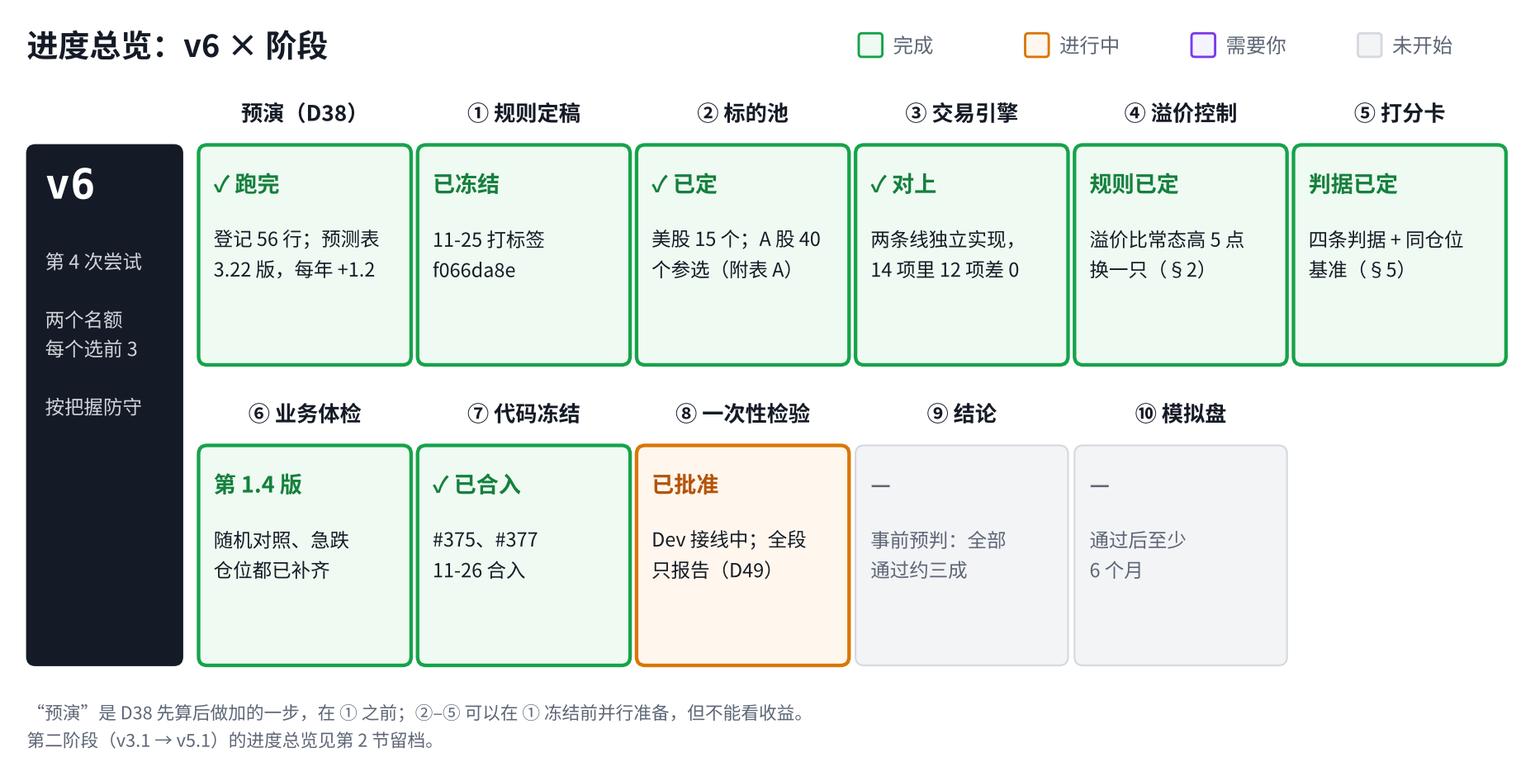
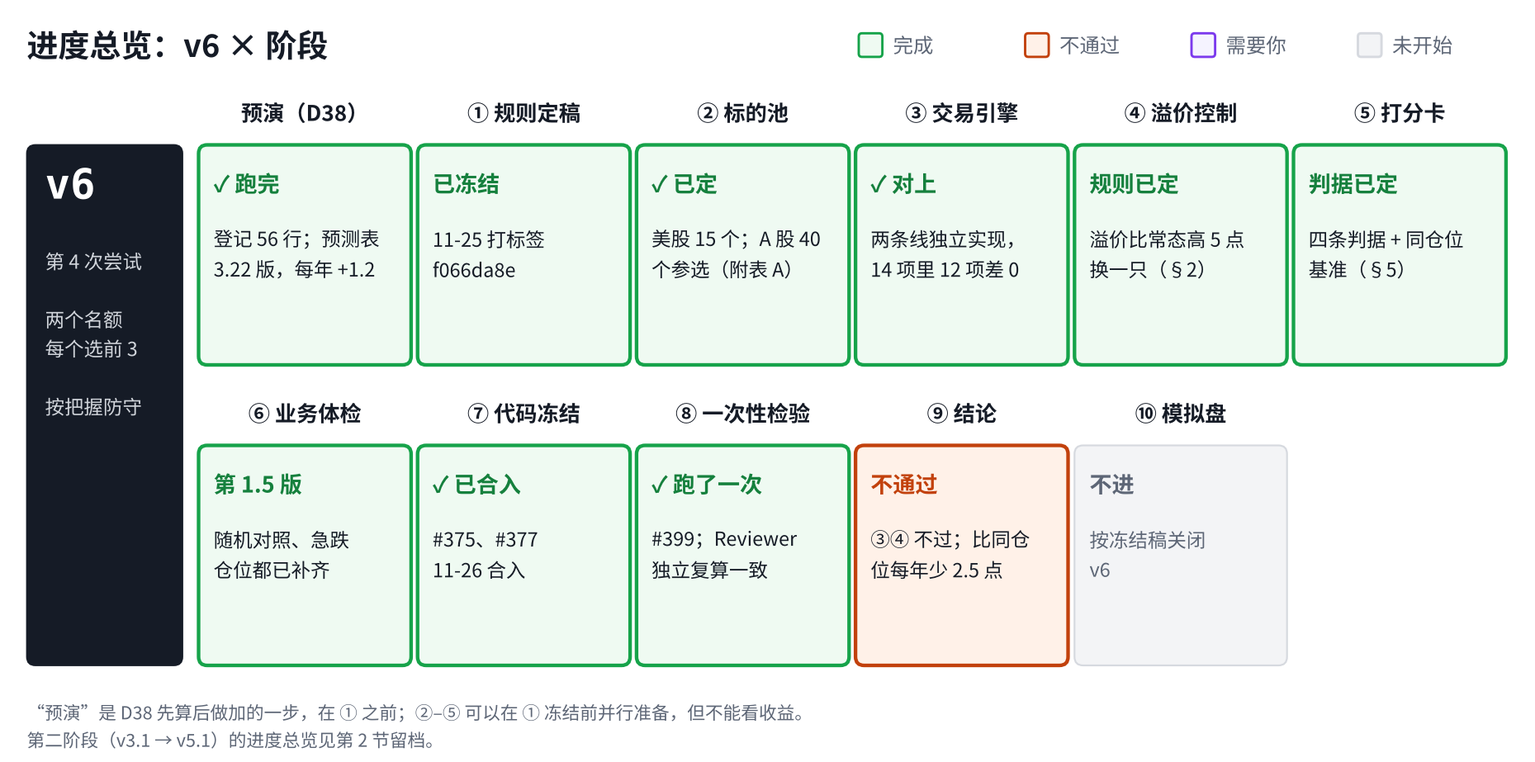
看板：v6 一次性检验不通过，按冻结稿关闭；进度总览重画
指标组件“本段”列缺省时回到“全段”（修 1.0.1 引入的体检页构建错误）。

Claude-Session: https://claude.ai/code/session_01D95uZGmhdA65bQR8bYU8L8

Changed region(s): [[0.4056, 0.5764, 0.78, 0.8797], [0.6552, 0.0303, 0.7176, 0.091]]

diff --git a/docs/artifact/board/index.html b/docs/artifact/board/index.html
@@ -975,6 +975,111 @@ a.sl-sp-i.t-todo .sl-sp-st { color: var(--muted); font-weight: 700; } a.sl-sp-i.
 @media (max-width: 760px) { .sl-dr { grid-template-columns: minmax(0, 1fr); gap: 3px; } .sl-ds { justify-content: flex-start; } .sl-look, a.sl-next { flex-direction: column; gap: 4px; align-items: flex-start; } }
 
 
+.gl-big { display: grid; gap: 2px; } .gl-big b { font-family: var(--font-mono); font-size: 24px; font-weight: 800; color: var(--ink); line-height: 1.15; } .gl-big span { font-size: 12px; color: var(--muted); font-weight: 600; }
+.gl-two { display: grid; gap: 6px; }
+.gl-two-r { display: grid; gap: 4px; }
+.gl-two-r em { font-style: normal; font-size: 11px; font-weight: 800; color: var(--muted); }
+.gl-two-r div { display: flex; flex-wrap: wrap; gap: 4px; } .gl-two-r span { font-size: 12px; padding: 3px 8px; border-radius: 6px; background: var(--bg); border: 1px solid var(--line); color: var(--ink); }
+.gl-two-r:first-child span { border-color: var(--accent); color: var(--accent); font-weight: 700; }
+.gl-th2 { display: grid; gap: 6px; }
+.gl-th-r { display: grid; grid-template-columns: 22px minmax(0, 1fr) auto; gap: 8px; align-items: center; padding: 5px 8px; border-radius: 8px; background: var(--bg); }
+.gl-th-k { font-size: 13px; font-weight: 600; color: var(--ink); } .gl-th-r b { font-size: 13px; font-weight: 800; color: var(--accent); white-space: nowrap; }
+.gl-st { position: relative; } .gl-st::before { content: ""; position: absolute; left: 10px; top: 10px; bottom: 10px; width: 2px; background: var(--line); }
+.gl-st li { position: relative; } .gl-st .gl-sn { position: relative; z-index: 1; }
+.gl-kw { color: var(--accent); font-weight: 800; }
+.gl-c.wide .gl-d { background: var(--bg); border-radius: 8px; padding: 8px 10px; }
+.gl-c .gl-s:only-of-type { }
+
+.gl-c.full { grid-column: 1 / -1; background: var(--bg); }
+.gl-chain { display: flex; flex-wrap: wrap; align-items: center; gap: 6px 4px; }
+.gl-node { font-size: 12.5px; font-weight: 800; padding: 6px 10px; border-radius: 8px; background: var(--surface); border: 1.5px solid var(--ink); color: var(--ink); }
+.gl-edge { display: inline-grid; grid-template-areas: 'l l' 'v a'; align-items: center; justify-items: center; padding: 0 4px; }
+.gl-edge em { grid-area: l; font-style: normal; font-size: 11px; font-weight: 700; color: var(--muted); }
+.gl-edge b { grid-area: v; font-family: var(--font-mono); font-size: 14px; font-weight: 800; }
+.gl-edge i { grid-area: a; font-style: normal; color: var(--muted); margin-left: 2px; }
+.gl-edge.pos b, .gl-edge.pos b * { color: var(--good) !important; } .gl-edge.neg b, .gl-edge.neg b * { color: var(--bad) !important; }
+.gl-val { display: flex; align-items: baseline; gap: 8px; } .gl-val b { font-family: var(--font-mono); font-size: 24px; font-weight: 800; } .gl-val span { font-size: 11.5px; color: var(--muted); }
+.gl-val.pos b, .gl-val.pos b * { color: var(--good) !important; } .gl-val.neg b, .gl-val.neg b * { color: var(--bad) !important; }
+
+.gl-c.wide { grid-column: span 2; }
+.gl-st { list-style: none !important; margin: 0 !important; padding: 0 !important; display: grid; gap: 5px; counter-reset: none; }
+.gl-st li::before, .gl-st li::marker { content: none !important; display: none !important; }
+.gl-st li { padding-left: 0 !important; margin: 0 !important; }
+.gl-st li { display: grid; grid-template-columns: 22px minmax(0, 1fr); gap: 8px; align-items: start; font-size: 13px; line-height: 1.5; color: var(--ink); }
+.gl-sn { width: 20px; height: 20px; border-radius: 50%; background: var(--accent); color: #fff; font-size: 11px; font-weight: 800; display: grid; place-items: center; margin-top: 1px; }
+.gl-sc { margin-top: 4px; }
+.gl-sc-ax { display: flex; justify-content: space-between; font-size: 11px; color: var(--muted); margin-bottom: 4px; }
+.gl-sc-bar { position: relative; height: 10px; border-radius: 5px; background: linear-gradient(90deg, #fde68a, #e5e7eb 50%, #bfdbfe); margin: 4px 0 64px; }
+.gl-mk { position: absolute; top: -3px; transform: translateX(-50%); }
+.gl-mk i { display: block; width: 4px; height: 16px; border-radius: 2px; background: var(--ink); margin: 0 auto; }
+.gl-mk em { position: absolute; top: 20px; left: 50%; transform: translateX(-50%); font-style: normal; font-size: 11px; line-height: 1.35; color: var(--ink); white-space: nowrap; text-align: center; }
+.gl-mk.up em { top: 38px; }
+.gl-mk.r em { left: auto; right: -2px; transform: none; text-align: right; } .gl-mk.l em { left: -2px; transform: none; text-align: left; }
+.gl-mk em b { display: block; font-family: var(--font-mono); color: var(--accent); }
+@media (max-width: 760px) { .gl-c.wide { grid-column: auto; } }
+
+.gl { display: grid; gap: 16px; }
+.gl-gh { display: flex; align-items: center; gap: 8px; font-size: 13px; font-weight: 800; color: var(--ink); margin-bottom: 8px; padding-left: 10px; border-left: 3px solid var(--accent); }
+.gl-gh span { font-size: 11px; font-weight: 700; color: var(--muted); background: var(--bg); border-radius: 999px; padding: 1px 8px; }
+.gl-grid { display: grid; grid-template-columns: repeat(var(--gl-c, 3), minmax(0, 1fr)); gap: 10px; }
+@media (max-width: 760px) { .gl-grid { grid-template-columns: 1fr; } }
+.gl-c { border: 1px solid var(--line); border-radius: 10px; padding: 11px 13px; background: var(--surface); display: grid; gap: 7px; align-content: start; }
+.gl-n { font-size: 15px; font-weight: 800; color: var(--accent); }
+.gl-s { font-size: 13.5px; line-height: 1.5; color: var(--ink); font-weight: 500; }
+.gl-d { font-size: 12px; line-height: 1.55; color: var(--muted); }
+.gl-bar { display: flex; height: 12px; border-radius: 4px; overflow: hidden; gap: 2px; }
+.gl-bar i { display: block; height: 12px; }
+.gl-leg { display: flex; flex-wrap: wrap; gap: 4px 10px; font-size: 11px; color: var(--muted); }
+.gl-leg b { display: inline-block; width: 8px; height: 8px; border-radius: 2px; margin-right: 4px; vertical-align: 0; }
+.c-a { background: #d97706; } .c-u { background: #2563eb; } .c-u2 { background: #60a5fa; } .c-h { background: #0d9488; } .c-b { background: #94a3b8; } .c-g { background: #ca8a04; } .c-o { background: #a3a3a3; }
+.gl-f { display: flex; flex-wrap: wrap; align-items: center; gap: 5px; }
+.gl-tm { font-size: 12px; font-weight: 700; padding: 3px 8px; border-radius: 6px; background: var(--bg); border: 1px solid var(--line); color: var(--ink); }
+.gl-op { font-size: 14px; font-weight: 800; color: var(--accent); }
+.gl-th { display: grid; gap: 4px; } .gl-th span { font-size: 12px; font-weight: 600; padding: 3px 8px; border-radius: 6px; background: var(--bg); color: var(--ink); }
+.comp-名词 .num { background: none !important; padding: 0 !important; border: 0 !important; color: inherit !important; }
+
+.kps { display: grid; grid-template-columns: repeat(4, minmax(0, 1fr)); gap: 10px; }
+.kp { border: 1px solid var(--line); border-top: 4px solid var(--muted); border-radius: 10px; padding: 10px 12px; background: var(--surface); display: grid; gap: 6px; align-content: start; }
+.kp.t-good { border-top-color: var(--good); } .kp.t-bad { border-top-color: var(--bad); }
+.kp-l { font-size: 12px; font-weight: 700; color: var(--muted); }
+.kp-v { font-size: 26px; font-weight: 800; font-family: var(--font-mono); line-height: 1.1; color: var(--ink); }
+.kp.t-good .kp-v { color: var(--good); } .kp.t-bad .kp-v { color: var(--bad); }
+.kp-cmp { display: grid; gap: 4px; }
+.kp-row { display: grid; grid-template-columns: 4.6em minmax(0, 1fr) 4.2em; gap: 6px; align-items: center; font-size: 11.5px; }
+.kp-k { color: var(--muted); white-space: nowrap; overflow: hidden; text-overflow: ellipsis; }
+.kp-row b { font-family: var(--font-mono); font-weight: 600; text-align: right; color: var(--ink); }
+.kp-bar { height: 7px; background: var(--bg); border-radius: 4px; overflow: hidden; } .kp-bar i { display: block; height: 7px; border-radius: 4px; background: var(--muted); } .kp-bar i.v { background: var(--accent); } .kp-bar.kp-pend { background: transparent; border: 1.5px dashed var(--line, #cbd5e1); height: 4px; }
+.kp-dots { display: flex; gap: 4px; } .kp-dots i { width: 11px; height: 11px; border-radius: 50%; border: 1.5px solid var(--muted); } .kp-dots i.on { background: var(--good); border-color: var(--good); } .kp-dots i.on.b { background: var(--muted); border-color: var(--muted); }
+.kp-r { font-size: 12.5px; font-weight: 600; color: var(--ink); }
+.comp-指标 .num { background: none !important; padding: 0 !important; border: 0 !important; color: inherit !important; }
+@media (max-width: 900px) { .kps { grid-template-columns: repeat(2, minmax(0, 1fr)); } }
+
+.rg { display: grid; gap: 8px; }
+.rg-r { display: grid; grid-template-columns: 96px repeat(var(--rg-n), minmax(0, 1fr)); gap: 8px; align-items: stretch; }
+.rg-hd span { font-size: 12px; font-weight: 700; color: var(--muted); padding: 0 4px; } .rg-hd span.rg-main { color: var(--ink); }
+.rg-k { display: flex; align-items: center; font-size: 14px; font-weight: 800; color: var(--ink); }
+.rg-c { border: 1px solid var(--line); border-radius: 10px; padding: 9px 11px; background: var(--surface); display: grid; gap: 6px; }
+.rg-c.rg-main { border-width: 2px; border-color: var(--ink); }
+.rg-top { display: flex; align-items: baseline; justify-content: space-between; gap: 6px; }
+.rg-top b { font-size: 22px; font-weight: 800; font-family: var(--font-mono); }
+.rg-top em { font-style: normal; font-size: 11px; font-weight: 700; }
+.rg-bar { position: relative; height: 8px; background: var(--bg); border-radius: 4px; overflow: hidden; }
+.rg-bar i { display: block; height: 8px; border-radius: 4px; }
+.rg-bar s { position: absolute; left: 50%; top: 0; bottom: 0; width: 1px; background: var(--muted); }
+.rg-sub { display: flex; justify-content: space-between; font-size: 11.5px; color: var(--muted); font-family: var(--font-mono); }
+.rg-c.t-good { background: var(--good-soft); } .rg-c.t-good b, .rg-c.t-good em { color: var(--good); } .rg-c.t-good .rg-bar i { background: var(--good); }
+.rg-c.t-bad { background: var(--bad-soft); } .rg-c.t-bad b, .rg-c.t-bad em { color: var(--bad); } .rg-c.t-bad .rg-bar i { background: var(--bad); }
+.rg-c.t-mid b, .rg-c.t-mid em { color: var(--muted); } .rg-c.t-mid .rg-bar i { background: var(--muted); }
+.ros { display: grid; grid-template-columns: repeat(auto-fit, minmax(220px, 1fr)); gap: 10px; }
+.ro { border: 1px solid var(--line); border-top: 4px solid var(--muted); border-radius: 10px; padding: 11px 13px; background: var(--surface); display: grid; gap: 5px; align-content: start; }
+.ro.t-good { border-top-color: var(--good); } .ro.t-bad { border-top-color: var(--bad); }
+.ro-k { font-size: 12px; font-weight: 700; color: var(--muted); }
+.ro-f { font-size: 20px; font-weight: 800; color: var(--ink); line-height: 1.25; }
+.ro.t-good .ro-f { color: var(--good); } .ro.t-bad .ro-f { color: var(--bad); }
+.ro-b { font-size: 13px; line-height: 1.55; color: var(--ink); }
+.comp-随机格 .num, .comp-读数 .num { background: none !important; padding: 0 !important; border: 0 !important; color: inherit !important; }
+@media (max-width: 760px) { .rg-r { grid-template-columns: 1fr; } .rg-hd { display: none; } }
+
 .cbx-c { gap: 10px; padding: 12px 14px; min-width: 210px; }
 .cbx-top span { font-size: 13px; }
 .cbx-is { display: flex; flex-wrap: wrap; gap: 6px; }
@@ -1114,6 +1219,22 @@ ol.route li .rt-gate { display: block !important; }
 .gt-d.no { background: var(--bad-soft); border-color: var(--bad); } .gt-d.no em { color: #fff; background: var(--bad); }
 .gt-d.pend { background: none; border-style: dashed; } .gt-d.pend b { font-family: var(--font-body); font-size: 13px; color: var(--muted); font-weight: 600; }
 .gt-all .gt-d { background: color-mix(in srgb, var(--surface) 12%, var(--ink)); border-color: color-mix(in srgb, var(--surface) 30%, var(--ink)); } .gt-all .gt-d span, .gt-all .gt-d.pend b { color: color-mix(in srgb, var(--surface) 78%, var(--ink)); }
+.gg { display: grid; gap: 6px; }
+.gg-r { display: grid; grid-template-columns: minmax(170px, 1.3fr) repeat(var(--gg-n), minmax(0, 1fr)); gap: 8px; align-items: stretch; }
+.gg-hd span { font-size: 12px; font-weight: 700; color: var(--muted); padding: 0 4px; align-self: end; }
+.gg-hd span.gg-main { color: var(--ink); }
+.gg-k { display: grid; gap: 2px; align-content: center; padding: 8px 10px; border-radius: 9px; background: var(--surface); border: 1px solid var(--line); }
+.gg-k b { font-size: 14px; color: var(--ink); } .gg-k span { font-size: 11.5px; color: var(--muted); }
+.gg-c { display: flex; align-items: center; justify-content: space-between; gap: 6px; padding: 8px 10px; border-radius: 9px; border: 1px solid var(--line); background: var(--surface); }
+.gg-c b { font-family: var(--font-mono); font-size: 15px; font-weight: 800; color: var(--ink); white-space: nowrap; }
+.gg-c em { font-style: normal; font-size: 11.5px; font-weight: 700; white-space: nowrap; }
+.gg-c.ok { background: var(--good-soft); border-color: color-mix(in srgb, var(--good) 40%, var(--line)); } .gg-c.ok em { color: var(--good); }
+.gg-c.no { background: var(--bad-soft); border-color: var(--bad); } .gg-c.no em { color: var(--bad); }
+.gg-c.gg-main { box-shadow: inset 0 0 0 1.5px var(--ink); }
+.gg-tot .gg-k { background: var(--bg); } .gg-tot .gg-c { justify-content: center; } .gg-tot .gg-c em { font-size: 13.5px; }
+.gg .num { background: none !important; padding: 0 !important; border: 0 !important; }
+.gg-c b.num, .gg-c b .num { font-family: var(--font-mono) !important; font-size: 15px !important; font-weight: 800 !important; color: var(--ink) !important; }
+@media (max-width: 760px) { .gg-r { grid-template-columns: 1fr repeat(var(--gg-n), minmax(0, 1fr)); } .gg-c { flex-direction: column; align-items: flex-start; } }
 .rc { display: grid; gap: 12px; }
 .rc-top { display: grid; grid-template-columns: auto minmax(0, 1fr); grid-template-areas: "s b" "s l"; gap: 4px 18px; align-items: center; }
 .rc-score { grid-area: s; display: flex; align-items: baseline; gap: 6px; } .rc-score b { font-family: var(--font-mono); font-size: 38px; font-weight: 800; color: var(--good); line-height: 1; }
@@ -1598,6 +1719,45 @@ ol.flow.f-compact .fl-d strong { color: var(--muted); font-weight: 600; }
 .f-pd-c.neg b { color: var(--bad); } .f-pd-c.pos b { color: var(--good); }
 @media (max-width: 760px) { .f-pd-r { grid-template-columns: 1fr; } }
 
+.f-dd .f-nv-b i { background: color-mix(in srgb, var(--bad) 70%, var(--surface)); }
+.f-dd.bm .f-nv-b i { background: var(--muted); } .f-dd.v6 .f-nv-b i { background: var(--bad); }
+
+.f-fas { border: 1px solid var(--line); border-radius: 10px; overflow: hidden; background: var(--surface); }
+.f-fa { display: grid; grid-template-columns: minmax(0, 1.5fr) 5em minmax(0, 1.2fr) minmax(0, 1fr); gap: 10px; padding: 8px 12px; border-top: 1px solid var(--line); align-items: center; font-size: 13px; }
+.f-fa.f-fa-hd { border-top: 0; background: var(--bg); } .f-fa.f-fa-hd > span { font-size: 11.5px; font-weight: 700; color: var(--muted); }
+.f-fa.tot { background: var(--bg); } .f-fa.tot .f-fa-k { font-weight: 800; }
+.f-fa-k { color: var(--ink); } .f-fa-m, .f-fa-r { font-family: var(--font-mono); color: var(--muted); }
+.f-fa-a { display: flex; align-items: center; gap: 8px; } .f-fa-a b { font-family: var(--font-mono); font-size: 14px; color: var(--ink); }
+.f-fa-a em { font-style: normal; font-size: 11px; font-weight: 700; padding: 1px 7px; border-radius: 999px; background: var(--bg); color: var(--muted); }
+.f-fa-a.hi b { color: var(--good); } .f-fa-a.hi em { background: var(--good-soft); color: var(--good); }
+.f-fa-a.lo b { color: var(--bad); } .f-fa-a.lo em { background: var(--bad-soft); color: var(--bad); }
+.f-fas .num { background: none !important; padding: 0 !important; border: 0 !important; color: inherit !important; }
+.f-fa-m .pos, .f-fa-m .neg, .f-fa-r .pos, .f-fa-r .neg { color: var(--muted) !important; font-weight: inherit !important; }
+.f-fa-a .pos, .f-fa-a .neg { color: inherit !important; }
+
+.f-lus { display: grid; gap: 5px; }
+.f-lu { display: grid; grid-template-columns: 74px minmax(0, 1fr) minmax(0, 1.2fr) minmax(0, 1.1fr) minmax(0, 1.2fr) minmax(0, 1.2fr); gap: 12px; align-items: center; padding: 9px 12px; border: 1px solid var(--line); border-radius: 10px; background: var(--surface); font-size: 12.5px; line-height: 1.45; color: var(--ink); }
+.f-lu.hd { background: none; border: 0; padding: 0 12px; } .f-lu.hd span { font-size: 11px; font-weight: 700; color: var(--muted); }
+.f-lu.hd i { display: inline-block; width: 10px; height: 8px; border-radius: 2px; margin: 0 3px 0 4px; } .f-lu.hd i.ka { background: var(--accent); margin-left: 0; } .f-lu.hd i.kd { background: var(--bad); }
+.f-lu-g { display: flex; align-items: baseline; gap: 10px; margin: 6px 0 0; padding: 6px 12px; border-radius: 8px; font-size: 13px; }
+.f-lu-g b { font-size: 14px; } .f-lu-g span { color: var(--muted); font-family: var(--font-mono); }
+.f-lu-g.on { background: var(--good-soft); } .f-lu-g.on b { color: var(--good); }
+.f-lu-g.off { background: var(--bad-soft); } .f-lu-g.off b { color: var(--bad); }
+.f-lu.v6 { border-color: var(--accent); box-shadow: inset 3px 0 0 var(--accent); }
+.f-lu-k { font-size: 15px; font-weight: 800; color: var(--ink); } .f-lu.v6 .f-lu-k { color: var(--accent); } .f-lu.bm .f-lu-k { color: var(--muted); }
+.f-lu-c.g { color: var(--good); } .f-lus .f-lu-g.off ~ .f-lu .f-lu-c.g { color: var(--muted); }
+.f-lu-bars { display: grid; gap: 5px; }
+.f-lu-b { display: grid; grid-template-columns: minmax(0, 1fr) 4.2em; gap: 6px; align-items: center; }
+.f-lu-b span { height: 10px; background: var(--bg); border-radius: 3px; overflow: hidden; }
+.f-lu-b i { display: block; height: 10px; border-radius: 3px; }
+.f-lu-b.a i { background: var(--accent); } .f-lu-b.d i { background: var(--bad); }
+.f-lu.bm .f-lu-b.a i { background: var(--muted); }
+.f-lu-b b { font-family: var(--font-mono); font-size: 13px; text-align: right; color: var(--ink); }
+.f-lu-b.d b { color: var(--bad); }
+.f-lu-why { font-weight: 600; }
+.f-lus .num { background: none !important; padding: 0 !important; border: 0 !important; color: inherit !important; }
+@media (max-width: 760px) { .f-lu { grid-template-columns: 1fr 1fr; gap: 6px 10px; } .f-lu-k, .f-lu-bars, .f-lu-why { grid-column: 1 / -1; } .f-lu.hd { display: none; } }
+
 </style>
 </head>
 <body>
@@ -1605,24 +1765,25 @@ ol.flow.f-compact .fl-d strong { color: var(--muted); font-weight: 600; }
 <nav class="toc" aria-label="目录">
   
   <div class="toc-title">目录</div>
-  <ol><li class="l2"><a href="#1-现在在哪-设计期做完-你已批准一次性检验-dev-正在接线">1. 现在在哪</a></li><li class="l2"><a href="#2-第二阶段每一版的结论-留档-选强势-跑赢现金才买-2016-年以后没站住">2. 第二阶段每一版的结论（留档）</a></li><li class="l3"><a href="#每一版的摘要-留档-最新的在上">每一版的摘要（留档，最新的在上）</a></li><li class="l3"><a href="#e2-的规则-4-步">E2 的规则（4 步）</a></li><li class="l3"><a href="#当时的体检-已被-v4-体检报告-取代-留档">当时的体检（已被《v4 体检报告》取代，留档）</a></li><li class="l3"><a href="#3-1病根-能选的太少-牛市里拿着现金">3.1病根</a></li><li class="l3"><a href="#3-2补池子-加离场-从跑输变成跑赢">3.2补池子、加离场</a></li><li class="l3"><a href="#3-3为什么是-10">3.3为什么是 10%</a></li><li class="l3"><a href="#3-4正式引擎复现了-e2-超额集中在前三年">3.4正式引擎复现了 E2，超额集中在前三年</a></li><li class="l3"><a href="#3-52009-年的失手-钱回来得太慢">3.52009 年的失手</a></li><li class="l3"><a href="#3-6可交易池-同一套规则-只能买当年真有的-etf">3.6可交易池</a></li><li class="l3"><a href="#3-7换两个角度再看-e2-是顺应了市场-还是被市场选中">3.7换两个角度再看</a></li><li class="l2"><a href="#3-已定的大事">3. 已定的大事</a></li><li class="l2"><a href="#4-风险-v6-的超额只有一个来源">4. 风险</a></li><li class="l2"><a href="#5-接下来">5. 接下来</a></li><li class="l2"><a href="#更新记录">更新记录</a></li></ol>
+  <ol><li class="l2"><a href="#1-现在在哪-v6-一次性检验不通过-按冻结稿关闭">1. 现在在哪</a></li><li class="l2"><a href="#2-第二阶段每一版的结论-留档-选强势-跑赢现金才买-2016-年以后没站住">2. 第二阶段每一版的结论（留档）</a></li><li class="l3"><a href="#每一版的摘要-留档-最新的在上">每一版的摘要（留档，最新的在上）</a></li><li class="l3"><a href="#e2-的规则-4-步">E2 的规则（4 步）</a></li><li class="l3"><a href="#当时的体检-已被-v4-体检报告-取代-留档">当时的体检（已被《v4 体检报告》取代，留档）</a></li><li class="l3"><a href="#3-1病根-能选的太少-牛市里拿着现金">3.1病根</a></li><li class="l3"><a href="#3-2补池子-加离场-从跑输变成跑赢">3.2补池子、加离场</a></li><li class="l3"><a href="#3-3为什么是-10">3.3为什么是 10%</a></li><li class="l3"><a href="#3-4正式引擎复现了-e2-超额集中在前三年">3.4正式引擎复现了 E2，超额集中在前三年</a></li><li class="l3"><a href="#3-52009-年的失手-钱回来得太慢">3.52009 年的失手</a></li><li class="l3"><a href="#3-6可交易池-同一套规则-只能买当年真有的-etf">3.6可交易池</a></li><li class="l3"><a href="#3-7换两个角度再看-e2-是顺应了市场-还是被市场选中">3.7换两个角度再看</a></li><li class="l2"><a href="#3-已定的大事">3. 已定的大事</a></li><li class="l2"><a href="#4-风险-v6-的超额只有一个来源">4. 风险</a></li><li class="l2"><a href="#5-接下来">5. 接下来</a></li><li class="l2"><a href="#更新记录">更新记录</a></li></ol>
 </nav>
 <main>
 <header class="top">
-  <div class="kicker">ETF_Rotation_Quant · 2026-11-26 晚</div>
+  <div class="kicker">ETF_Rotation_Quant · 2026-11-27</div>
   <h1>ETF 轮动 · Owner 看板</h1>
   
 </header>
 <section class="intro status"><p class="kv"><span class="kv-k"><strong>项目愿景</strong></span><span class="kv-v">　在动态周期内，从多类资产里选出 Top N 强势 ETF 轮动持有，获得超额收益、稳定跑赢被动基准，同时把回撤控制住。</span></p>
-<div class="cards from-table status"><div class="card tone-0"><div class="ct">工程进度</div><div class="cb"><strong>设计期全部做完、代码已冻结</strong>（#375、#377 合入）；《v6 体检报告》第 1.4 版；你已批准一次性检验。Dev 正把检验代码接上，D50 合入、Reviewer 签收后就跑。</div></div><div class="card tone-1"><div class="ct">业务结论</div><div class="cb">设计期 2006–15：v6 每年 <strong class="num"><span class="num">15.3%</span></strong>、最大回撤 <strong class="num"><span class="num">−28.7%</span></strong>；四条判据全段都过，后五年 ③④ 不过。同结构随机 1000 次里 v6 排第 <strong class="num">96.4</strong> 百分位，美股名额 97.6、A 股名额 67.5。</div></div><div class="card tone-2"><div class="ct">需要你</div><div class="cb"><strong>现在不用操作。</strong>下一次需要你的是看一次性检验报告。</div></div></div>
+<div class="cards from-table status"><div class="card tone-0"><div class="ct">工程进度</div><div class="cb"><strong>一次性检验跑了一次</strong>（#399），Reviewer 独立复算（#400）过与不过逐条一致；《v6 一次性检验报告》第 1.0.1 版已发布。</div></div><div class="card tone-1"><div class="ct">业务结论</div><div class="cb"><strong>v6 不通过</strong>：检验段每年 <strong class="num"><span class="num">10.6%</span></strong>、回撤 <strong class="num"><span class="num">−25.8%</span></strong>；③ 0.41 低于 K2A 0.57，④ 比同仓位基准每年少 <strong class="num">2.5</strong> 点。挑选是真的（随机 1000 次排第 100），但候选池整体每年落后宽基 3.6 点。</div></div><div class="card tone-2"><div class="ct">需要你</div><div class="cb"><strong>定下一步</strong>：v6 按冻结稿关闭；第 5 次尝试从哪里入手，等你定。</div></div></div>
 </section>
-<section id="sec-1-现在在哪-设计期做完-你已批准一次性检验-dev-正在接线"><h2 id="1-现在在哪-设计期做完-你已批准一次性检验-dev-正在接线"><span class="num">01</span>现在在哪：设计期做完，你已批准一次性检验，Dev 正在接线</h2>
-<p class="memo"><strong>两条线独立算出的设计期数字逐项对上：v6 每年 <span class="num">15.3%</span>、回撤 <span class="num">−28.7%</span>，四条判据全段都过、后五年 ③④ 不过。一次性检验加全段窗口只报告（D49），等你批准开考。</strong></p>
-<figure><img alt="进度总览：①–⑦ 完成，⑧ 一次性检验已批准、Dev 接线中" src="../../assets/owner-board/b10-v6-roadmap.png"/></figure>
+<section id="sec-1-现在在哪-v6-一次性检验不通过-按冻结稿关闭"><h2 id="1-现在在哪-v6-一次性检验不通过-按冻结稿关闭"><span class="num">01</span>现在在哪：v6 一次性检验不通过，按冻结稿关闭</h2>
+<p class="memo"><strong>检验段 2016-01 <span class="arr">→</span> 2026-09：v6 每年 <span class="num">10.6%</span>，比同仓位基准少 2.5 点；挑选每年 +3.6 点，被候选池落后宽基的 −3.6 点和 1.6 点成本吃掉。</strong></p>
+<figure><img alt="进度总览：⑧ 一次性检验跑了一次，⑨ 结论不通过，⑩ 模拟盘不进" src="../../assets/owner-board/b10-v6-roadmap.png"/></figure>
 <figure><img alt="预计每年比基准多约 1.2 个点，美股挑选为主、A 股挑选为辅" src="../../assets/v6-preflight/f7-forecast.png"/></figure>
 <ul class="points">
-<li><strong>读进度总览</strong>：③ 两条线独立实现，设计期 14 项里 12 项差 0；⑥ 体检报告第 1.4 版，随机对照和急跌仓位都已补齐；⑦ #375、#377 已合入，代码冻结；⑧ 你已批准，Dev 接线、Reviewer 签收后只跑一次。</li>
-<li><strong>接下来的顺序</strong>：D50 合入 <span class="arr">→</span> Dev 接线、Reviewer 签收 <span class="arr">→</span> ⑧ 一次性检验 <span class="arr">→</span> ⑨ 结论（通过 / 通过（有条件）/ 不通过） <span class="arr">→</span> ⑩ 至少 6 个月模拟盘（通过才进）。</li>
+<li><strong>读进度总览</strong>：⑧ 只跑了一次，Reviewer 用自己的程序复算，四条判据、S1、S3、连续性版的过与不过全部一致；⑨ 不通过，8 项稳健性也都不通过；⑩ 按冻结稿不进模拟盘。</li>
+<li><strong>钱从哪来</strong>：比 BM-主多 1.9 点，全靠美股放 <span class="num">60%</span>（+4.0）；挑选 +3.6 四个五年段都为正，但候选池等权拿着每年比同仓位宽基少 3.6 点，再扣成本 1.6 点。</li>
+<li><strong>还在对账</strong>：两边水平差（④ −2.5 对 −3.5 点）的来源；汇率层、每月仓位等四样补导出。都不改结论。</li>
 <li><strong>体检里最要紧的三件事</strong>：同仓位下 v6 比不挑不防的 BM-同仓位每年多 2.5 点、回撤浅一半；和增强基准 K2A 几乎是一种性格（后五年判据 ③ 输给它）；2008 年躲开大半，2015 年防守帮得不多。</li>
 <li><strong>全段窗口为什么只报告</strong>（D49）：全段一半是设计期，检验段一分钱不赚、全段年化也有约 <span class="num">7%</span>；所以全段只用来拆“钱从哪来”，每一块按四个五年段看是否稳定，拆法和读法开考前写死。</li>
 <li><strong>读预测图</strong>：来自历史的超额先打五折、再按候选个数打六折，成本按上限；合计低于 0 就不起草，现在 +1.2。</li>
@@ -1638,8 +1799,8 @@ ol.flow.f-compact .fl-d strong { color: var(--muted); font-weight: 600; }
 </thead>
 <tbody>
 <tr>
-<td><a href="https://claude.ai/artifact/GQKvS1KvRmWiPBkHKd7JRp"><strong>v6 一次性检验报告（骨架）</strong></a></td>
-<td>开考前定下的结构和三版结论句；跑完只填数</td>
+<td><a href="https://claude.ai/artifact/GQKvS1KvRmWiPBkHKd7JRp"><strong>v6 一次性检验报告</strong></a></td>
+<td>v6 不通过：过不过、稳不稳、钱从哪来、挑选与防守、八条线、性格、预测对账、连续性版、接下来</td>
 </tr>
 <tr>
 <td><a href="https://claude.ai/artifact/NRgYVyimeFrzdhRetr48Fq"><strong>v6 体检报告（设计期）</strong></a></td>
@@ -1942,7 +2103,7 @@ ol.flow.f-compact .fl-d strong { color: var(--muted); font-weight: 600; }
 </div></div>
 </section>
 <section class="status actions" id="sec-5-接下来"><h2 id="5-接下来"><span class="num">05</span>接下来</h2>
-<div class="actboard"><div class="ab-strip"><span class="ab-s s-me"><b class="num">1</b>待你拍板</span><span class="ab-s s-todo"><b class="num">6</b>待做</span><span class="ab-s s-ongoing"><b class="num">1</b>持续</span></div><div class="ab-mine"><div class="ab-mh"><span class="ab-av">你</span><b>需要你拍板</b></div><div class="ab-decs"><div class="ab-dec"><div class="ab-dn">1</div><div class="ab-obj">已批准一次性检验（11-26），<span class="ab-id">D50</span>-4 选 B。下一次需要你的是看一次性检验报告</div></div></div></div><div class="ab-grid"><div class="ab-card"><div class="ab-who"><span class="ab-av">O</span><b>Orchestrator</b><span class="ab-n">3</span></div><ul class="ab-items"><li class="st-todo"><span class="ab-st">待做</span><span class="ab-tx"><span class="ab-id">D50</span> 第 3 稿</span></li><li class="st-todo"><span class="ab-st">待做</span><span class="ab-tx">体检报告 1.4（跑赢随机、急跌仓位）</span></li><li class="st-todo"><span class="ab-st">待做</span><span class="ab-tx">一次性检验报告骨架 0.4.1 已发布，跑完只填数</span></li></ul></div><div class="ab-card"><div class="ab-who"><span class="ab-av">团</span><b>团队</b><span class="ab-n">3</span></div><ul class="ab-items"><li class="st-todo"><span class="ab-st">待做</span><span class="ab-tx">Dev 按 <span class="ab-id">D49</span>、<span class="ab-id">D50</span> 把一次性检验接上（S1–S8、全段、拆账、现行配置面板、A1 / A2 衔接），并说明 2008 年现金和国债的记法</span></li><li class="st-todo"><span class="ab-st">待做</span><span class="ab-tx">Reviewer 复核体检 1.4、骨架 0.4.1、<span class="ab-id">D50</span> 第 3 稿和接线代码</span></li><li class="st-todo"><span class="ab-st">待做</span><span class="ab-tx">Manager 合入 #389、#384、#387、#388。签收后开考</span></li></ul></div><div class="ab-card"><div class="ab-who"><span class="ab-av">核</span><b>核心配置</b><span class="ab-n">1</span></div><ul class="ab-items"><li class="st-ongoing"><span class="ab-st">持续</span><span class="ab-tx">照常执行（<span class="ab-id">D8</span>），不受 v6 影响</span></li></ul></div></div></div>
+<div class="actboard"><div class="ab-strip"><span class="ab-s s-me"><b class="num">2</b>待你拍板</span><span class="ab-s s-todo"><b class="num">5</b>待做</span><span class="ab-s s-ongoing"><b class="num">1</b>持续</span></div><div class="ab-mine"><div class="ab-mh"><span class="ab-av">你</span><b>需要你拍板</b></div><div class="ab-decs"><div class="ab-dec"><div class="ab-dn">1</div><div class="ab-obj">看《v6 一次性检验报告》</div></div><div class="ab-dec"><div class="ab-dn">2</div><div class="ab-verb">定</div><div class="ab-obj">第 5 次尝试的方向</div></div></div></div><div class="ab-grid"><div class="ab-card"><div class="ab-who"><span class="ab-av">O</span><b>Orchestrator</b><span class="ab-n">2</span></div><ul class="ab-items"><li class="st-todo"><span class="ab-st">待做</span><span class="ab-tx">报告 1.0.1 已发布</span></li><li class="st-todo"><span class="ab-st">待做</span><span class="ab-tx">你定方向后先写一页方向备忘</span></li></ul></div><div class="ab-card"><div class="ab-who"><span class="ab-av">团</span><b>团队</b><span class="ab-n">3</span></div><ul class="ab-items"><li class="st-todo"><span class="ab-st">待做</span><span class="ab-tx">Reviewer 审 #401（报告、看板）</span></li><li class="st-todo"><span class="ab-st">待做</span><span class="ab-tx">Manager 合入 #400、#401</span></li><li class="st-todo"><span class="ab-st">待做</span><span class="ab-tx">Dev 和 Reviewer 对账两边水平差，Dev 补四样导出（汇率层、每月仓位、跨两段起点、BM-主逐年）</span></li></ul></div><div class="ab-card"><div class="ab-who"><span class="ab-av">核</span><b>核心配置</b><span class="ab-n">1</span></div><ul class="ab-items"><li class="st-ongoing"><span class="ab-st">持续</span><span class="ab-tx">照常执行（<span class="ab-id">D8</span>），不受 v6 影响</span></li></ul></div></div></div>
 <div class="fold"><button aria-expanded="false" class="fold-h" type="button"><span aria-hidden="true" class="chev">▸</span><span>第二阶段收尾时的接下来（留档）</span></button><div class="fold-b" hidden="">
 <ol class="f-compact steps-n flow" style="counter-reset: fl 0">
 <li><b class="fl-t">你</b><span class="fl-k">或先做期权）</span><span class="fl-d">确认第二阶段轮动研究按“不成立”关闭（第 3 次尝试）；批准补齐 57 只场外基金 2016 年以后的净值；定下一步（复盘后再决定 v6，或先做期权）。</span></li>
@@ -1954,7 +2115,7 @@ ol.flow.f-compact .fl-d strong { color: var(--muted); font-weight: 600; }
 </div></div>
 </section>
 <section class="appendix" id="sec-更新记录"><h3 class="appx" id="更新记录">更新记录</h3>
-<div class="log"><div><span class="d">11-26 晚</span><span>你批准一次性检验；D50-4 选 B（降级可累积）。同结构随机对上：v6 第 96.4 百分位，美股名额 97.6、A 股名额 67.5。急跌仓位：2015 年 5–7 月底三票都没响，股灾期间 A 股满仓，这是后五年输给 K2A 的主因。</span></div><div><span class="d">11-26</span><span>v6 设计期实现与复算对上（Dev #377、Reviewer #375）：14 项里 12 项差 0，2015-08 示例勘误（A 股约留一半股票），K2A 记账差 ≤ 0.03 点。《v6 体检报告》第 1.2 版：十年四条判据都过、后五年 ③④ 不过；新增八条线做法、净值与回撤、两次急跌、四种行情、任意起点。你定 D48-4（K2A 用真实月末）；同意 D49：一次性检验加全段窗口，只报告，用来认清钱从哪来。</span></div><div><span class="d">11-25</span><span>D43–D47：别的市场用欧洲，国债用德国 10 年期、TRIN 缺席（D44）；冻结代码是规范的一部分、TRIN 截尾按程序错误修正（D45，你确认）；设计期对账收尾（D46）；体检输入口径（D47）。</span></div><div><span class="d">11-25</span><span>v6 预注册冻结：R1b 签收第 2.4 版，#339 合并，<code>milestone/v6-prereg-freeze</code> 打在 f066da8e，冻结文本和签收版本逐字节相同。别的市场普查：两地都没有免费的交易所日行情；能免费拿到的是每日净值（欧洲 iShares 行业基金 2001–02 年起，要用分红记录还原；日本 TOPIX-17 基金 2008-03 起，自带分红再投资净值）。</span></div><div><span class="d">11-25</span><span>你批准冻结 v6 预注册。R1b 在 D42 增量上提了两项：别的市场写定前看过什么（你书面确认没看过两地行业层）；A1、A2、现行配置怎么跑（原样继承 v4 附表 A、引用已签收账本；现行配置走 D5 签收的复现）。第 2.4 版写入 D42-8、D42-9，送 R1b 签收。</span></div><div><span class="d">11-24</span><span>你定了 D42：现行配置作为对照、豁免 6 个月“不差于”门槛（1A）；上线前在一个没看过的市场检验一次（2A）；A1、A2 写回对照；体检报告和一次性检验报告按四张图出。预注册第 2.3 版。设计期 v6 每年比现行配置少约 4 点（2006–10 年 A 股大牛市），2011–15 年多约 2 点。</span></div><div><span class="d">11-24</span><span>v6 预注册第 2.2 版（待冻结）：附表 A（美股 15 个、A 股 40 个参选，5 个美股、7 个一级行业没有场内基金）、附表 B（设计期 v6 净每年 15.5%，挑选 +4.3 抵掉仓位差 −3.4 和成本 −1.5）；你确认一级行业保留回填、931743 从 2023-07-27 起、细分化工不参选；DJIA、DWRTF 检验段补数入库（#359、#361）。预注册页面改成每节一个按内容选的视觉。R1b 复核中。</span></div><div><span class="d">11-23</span><span>v6 预注册初稿第 2.1 版：三份行业数据的检验写进 §4——沪深300 十个行业里上月涨幅不进 v6，隔夜版关闭，申万一级上 12−1 比等权每年少 5.9 个点（可能回填，只作参考）；规则不变。预注册页面按讲故事模式重排；数据看板同步。看板改为 v6 现状，第二阶段内容收进留档。</span></div><div><span class="d">11-23</span><span>你确认预注册三项（D40-14）：不另设单只上限；保费只量防守成本；判据 ③ 比年化 ÷ 最大回撤；判据 ④ 不低于同仓位基准。</span></div><div><span class="d">11-22</span><span>v6 预注册初稿第 1 版；A 股 12−1 主规则、连续性版挑战者（D40-13）；D38 第 55 行触发停止规则，A 股不再加新选法。</span></div><div><span class="d">11-19～11-20</span><span>你定了 v6 结构（D40）：美股 60%、A 股 40%，每个名额选前 3，按把握 p 防守；美股候选只加 REIT。</span></div><div><span class="d">11-17</span><span>底线 60 万、保费上限 4 点（D39）；发布《v6 预演预测表》。</span></div><div><span class="d">11-16</span><span>项目整体诊断（D38）：起草前先算预测表；合同加“先算后做”。</span></div><div><span class="d">11-05</span><span>第二阶段按“不成立”关闭（D36）；v6 方向：只用场内基金，新基金上市当天就能打分，提高每一笔交易的期望。</span></div><div><span class="d">11-05</span><span>发布《第二阶段复盘》：设计期 E2 新口径“挑哪一只”每年只比等权多 1.1 个点，超额几乎全来自 2006–10 年 A 股和 2008 年躲开下跌；检验段池子从 26 个变成 102 个、七成海外主题，基准六成收益来自美股。场外净值补齐 63 只；你定了能买到的池子只用场内基金（D35）。两份报告的任意起点改用逐月柱状图。</span></div><div><span class="d">11-04</span><span>一次性检验跑完，Reviewer 签收：E2 新口径年化 3.0%，基准 8.7%，持有 5 年 70 个起点 0 个跑赢，判据 ① ⑥ 不通过。A1 8.6%、A2 7.2%（回撤 −10%）、v5.1 −3.3%。复查发现 57 只场外基金净值只到 2015 年底，能买到的池子的结果不可用，过关结论不受影响。发布《一次性检验报告》。</span></div><div><span class="d">11-04</span><span>你批准封板（D34）；一次性检验同次跑 E2 新口径、A1、基准、v5.1，v5.1 只作对照。发布《v5.1 体检报告》；《v5 研究备忘》第 23 版新增第 7 节“任意时点买入”：能排名的池子持有 5 年每个起点都赢基准，能买到的池子只有 34%。</span></div><div><span class="d">11-04</span><span>v5.1 设计期跑完，不入围：中国十年年化 30.1%、回撤 −26%，四个对照都赢；美国 ETF 上只有 1.3%，栽在换手和成本。入围只有 E2 新口径。</span></div><div><span class="d">11-04</span><span>v5.1 定稿（设计稿第 3.2 版），预注册送审，进入设计期检验（D33）。离场改为按前沿和回撤面、空仓默认国债；预期疼痛表写进预注册；进度总览加 v5.1 一行。</span></div><div><span class="d">11-01</span><span>主看板不再列 v5：原版有结构硬伤，不够格上设计期数据。v5 策略先讨论清楚，再写预注册。</span></div><div><span class="d">11-01</span><span>你选了 A：v5 做一次设计缺陷修正（D30-2）。v5.1 = E2 + 每类上限，预注册含设计评审和事前画像；《v5 研究备忘》第 11 版第 1 节改写为 v5.1 的策略核心、事前评估、为什么能跟随市场。</span></div><div><span class="d">11-01</span><span>v5 归因：四处结构硬伤，根子是按类别分钱、不按强弱分钱；扣掉“押得少”和随机挑选没有区别。第 2 节版本表加“策略详情”，行与图一一对应；v4 摘要换成能看出四个微调没过的图。</span></div><div><span class="d">11-01</span><span>《v5 研究备忘》第 10 版重写成完整故事（结论、过程、过关、哪里赢输、为什么输、学到什么），五张图；看板新增版本进化图和每一版的摘要。</span></div><div><span class="d">11-01</span><span>v5 设计期跑完：按波动调仓没过关，10% 离场过关；最终版指数池 12.7%，没有入围。</span></div><div><span class="d">11-01</span><span>你批准了 v5 预注册的 4 处选择（D29）；核心价值写进 AGENTS.md（D28）。</span></div><div><span class="d">11-01</span><span>看板改成索引：只留现状、每一版的结论、已定的大事、风险和接下来；v3 阶段的体检收进折叠区。</span></div><div><span class="d">10-31</span><span>v5 预注册草案第 1 版：起点 = 跑赢现金的大类等分、都不跑赢时放国债或黄金；之后逐个加按波动调仓、10% 离场；小仓试错不进 v5。</span></div><div><span class="d">10-31（六）</span><span>你同意封板条件（D27）：v5 是最后一个研究版本，做完就封板，不论结果；一次性检验只跑一次；封板后的新想法记作 v6，可用全部历史设计、和在跑的策略逐项比，上线前过别的市场和 6 个月并行模拟，小资金起步。见《v5 研究备忘》第 8 节。</span></div><div><span class="d">10-31</span><span>你同意 v5 换架构（D26）：先判断该不该持有，再在少数大类里挑，空位放防守资产；部件逐个加。依据见《v5 研究备忘》第 5 版。红利 ETF 错价已修，可交易池 8.7%。</span></div><div><span class="d">10-31</span><span>R5c 完成：U-指数池能买国债、黄金、创业板后，E2 新口径年化 24.9%，过关结果不变；代码第二次冻结。发布《v4 体检报告》第 3 版（含两个池子的介绍、2008 与 2015 两次大跌的拆解）。</span></div></div>
+<div class="log"><div><span class="d">11-27</span><span>v6 一次性检验不通过（#399，运行次数 = 1）：检验段每年 10.6%、回撤 −25.8%；③ 0.41 对 K2A 0.57、④ 对同仓位基准 −2.5 点。Reviewer 独立复算（#400）结论一致，水平差待对账。挑选 +3.6 稳定、随机第 100；候选池等权 −3.6、成本 −1.6。连续性版也不通过（t = −0.84）。按冻结稿关闭 v6。</span></div><div><span class="d">11-26 夜</span><span>开考前登记 D51（判据 ② 对照）、D52（判定成本仍单边 0.2%，万分之一只报告）；预演两边对上；体检报告 1.5.1；一次性检验报告骨架 0.5。</span></div><div><span class="d">11-26 晚</span><span>你批准一次性检验；D50-4 选 B（降级可累积）。同结构随机对上：v6 第 96.4 百分位，美股名额 97.6、A 股名额 67.5。急跌仓位：2015 年 5–7 月底三票都没响，股灾期间 A 股满仓，这是后五年输给 K2A 的主因。</span></div><div><span class="d">11-26</span><span>v6 设计期实现与复算对上（Dev #377、Reviewer #375）：14 项里 12 项差 0，2015-08 示例勘误（A 股约留一半股票），K2A 记账差 ≤ 0.03 点。《v6 体检报告》第 1.2 版：十年四条判据都过、后五年 ③④ 不过；新增八条线做法、净值与回撤、两次急跌、四种行情、任意起点。你定 D48-4（K2A 用真实月末）；同意 D49：一次性检验加全段窗口，只报告，用来认清钱从哪来。</span></div><div><span class="d">11-25</span><span>D43–D47：别的市场用欧洲，国债用德国 10 年期、TRIN 缺席（D44）；冻结代码是规范的一部分、TRIN 截尾按程序错误修正（D45，你确认）；设计期对账收尾（D46）；体检输入口径（D47）。</span></div><div><span class="d">11-25</span><span>v6 预注册冻结：R1b 签收第 2.4 版，#339 合并，<code>milestone/v6-prereg-freeze</code> 打在 f066da8e，冻结文本和签收版本逐字节相同。别的市场普查：两地都没有免费的交易所日行情；能免费拿到的是每日净值（欧洲 iShares 行业基金 2001–02 年起，要用分红记录还原；日本 TOPIX-17 基金 2008-03 起，自带分红再投资净值）。</span></div><div><span class="d">11-25</span><span>你批准冻结 v6 预注册。R1b 在 D42 增量上提了两项：别的市场写定前看过什么（你书面确认没看过两地行业层）；A1、A2、现行配置怎么跑（原样继承 v4 附表 A、引用已签收账本；现行配置走 D5 签收的复现）。第 2.4 版写入 D42-8、D42-9，送 R1b 签收。</span></div><div><span class="d">11-24</span><span>你定了 D42：现行配置作为对照、豁免 6 个月“不差于”门槛（1A）；上线前在一个没看过的市场检验一次（2A）；A1、A2 写回对照；体检报告和一次性检验报告按四张图出。预注册第 2.3 版。设计期 v6 每年比现行配置少约 4 点（2006–10 年 A 股大牛市），2011–15 年多约 2 点。</span></div><div><span class="d">11-24</span><span>v6 预注册第 2.2 版（待冻结）：附表 A（美股 15 个、A 股 40 个参选，5 个美股、7 个一级行业没有场内基金）、附表 B（设计期 v6 净每年 15.5%，挑选 +4.3 抵掉仓位差 −3.4 和成本 −1.5）；你确认一级行业保留回填、931743 从 2023-07-27 起、细分化工不参选；DJIA、DWRTF 检验段补数入库（#359、#361）。预注册页面改成每节一个按内容选的视觉。R1b 复核中。</span></div><div><span class="d">11-23</span><span>v6 预注册初稿第 2.1 版：三份行业数据的检验写进 §4——沪深300 十个行业里上月涨幅不进 v6，隔夜版关闭，申万一级上 12−1 比等权每年少 5.9 个点（可能回填，只作参考）；规则不变。预注册页面按讲故事模式重排；数据看板同步。看板改为 v6 现状，第二阶段内容收进留档。</span></div><div><span class="d">11-23</span><span>你确认预注册三项（D40-14）：不另设单只上限；保费只量防守成本；判据 ③ 比年化 ÷ 最大回撤；判据 ④ 不低于同仓位基准。</span></div><div><span class="d">11-22</span><span>v6 预注册初稿第 1 版；A 股 12−1 主规则、连续性版挑战者（D40-13）；D38 第 55 行触发停止规则，A 股不再加新选法。</span></div><div><span class="d">11-19～11-20</span><span>你定了 v6 结构（D40）：美股 60%、A 股 40%，每个名额选前 3，按把握 p 防守；美股候选只加 REIT。</span></div><div><span class="d">11-17</span><span>底线 60 万、保费上限 4 点（D39）；发布《v6 预演预测表》。</span></div><div><span class="d">11-16</span><span>项目整体诊断（D38）：起草前先算预测表；合同加“先算后做”。</span></div><div><span class="d">11-05</span><span>第二阶段按“不成立”关闭（D36）；v6 方向：只用场内基金，新基金上市当天就能打分，提高每一笔交易的期望。</span></div><div><span class="d">11-05</span><span>发布《第二阶段复盘》：设计期 E2 新口径“挑哪一只”每年只比等权多 1.1 个点，超额几乎全来自 2006–10 年 A 股和 2008 年躲开下跌；检验段池子从 26 个变成 102 个、七成海外主题，基准六成收益来自美股。场外净值补齐 63 只；你定了能买到的池子只用场内基金（D35）。两份报告的任意起点改用逐月柱状图。</span></div><div><span class="d">11-04</span><span>一次性检验跑完，Reviewer 签收：E2 新口径年化 3.0%，基准 8.7%，持有 5 年 70 个起点 0 个跑赢，判据 ① ⑥ 不通过。A1 8.6%、A2 7.2%（回撤 −10%）、v5.1 −3.3%。复查发现 57 只场外基金净值只到 2015 年底，能买到的池子的结果不可用，过关结论不受影响。发布《一次性检验报告》。</span></div><div><span class="d">11-04</span><span>你批准封板（D34）；一次性检验同次跑 E2 新口径、A1、基准、v5.1，v5.1 只作对照。发布《v5.1 体检报告》；《v5 研究备忘》第 23 版新增第 7 节“任意时点买入”：能排名的池子持有 5 年每个起点都赢基准，能买到的池子只有 34%。</span></div><div><span class="d">11-04</span><span>v5.1 设计期跑完，不入围：中国十年年化 30.1%、回撤 −26%，四个对照都赢；美国 ETF 上只有 1.3%，栽在换手和成本。入围只有 E2 新口径。</span></div><div><span class="d">11-04</span><span>v5.1 定稿（设计稿第 3.2 版），预注册送审，进入设计期检验（D33）。离场改为按前沿和回撤面、空仓默认国债；预期疼痛表写进预注册；进度总览加 v5.1 一行。</span></div><div><span class="d">11-01</span><span>主看板不再列 v5：原版有结构硬伤，不够格上设计期数据。v5 策略先讨论清楚，再写预注册。</span></div><div><span class="d">11-01</span><span>你选了 A：v5 做一次设计缺陷修正（D30-2）。v5.1 = E2 + 每类上限，预注册含设计评审和事前画像；《v5 研究备忘》第 11 版第 1 节改写为 v5.1 的策略核心、事前评估、为什么能跟随市场。</span></div><div><span class="d">11-01</span><span>v5 归因：四处结构硬伤，根子是按类别分钱、不按强弱分钱；扣掉“押得少”和随机挑选没有区别。第 2 节版本表加“策略详情”，行与图一一对应；v4 摘要换成能看出四个微调没过的图。</span></div><div><span class="d">11-01</span><span>《v5 研究备忘》第 10 版重写成完整故事（结论、过程、过关、哪里赢输、为什么输、学到什么），五张图；看板新增版本进化图和每一版的摘要。</span></div><div><span class="d">11-01</span><span>v5 设计期跑完：按波动调仓没过关，10% 离场过关；最终版指数池 12.7%，没有入围。</span></div><div><span class="d">11-01</span><span>你批准了 v5 预注册的 4 处选择（D29）；核心价值写进 AGENTS.md（D28）。</span></div><div><span class="d">11-01</span><span>看板改成索引：只留现状、每一版的结论、已定的大事、风险和接下来；v3 阶段的体检收进折叠区。</span></div><div><span class="d">10-31</span><span>v5 预注册草案第 1 版：起点 = 跑赢现金的大类等分、都不跑赢时放国债或黄金；之后逐个加按波动调仓、10% 离场；小仓试错不进 v5。</span></div><div><span class="d">10-31（六）</span><span>你同意封板条件（D27）：v5 是最后一个研究版本，做完就封板，不论结果；一次性检验只跑一次；封板后的新想法记作 v6，可用全部历史设计、和在跑的策略逐项比，上线前过别的市场和 6 个月并行模拟，小资金起步。见《v5 研究备忘》第 8 节。</span></div><div><span class="d">10-31</span><span>你同意 v5 换架构（D26）：先判断该不该持有，再在少数大类里挑，空位放防守资产；部件逐个加。依据见《v5 研究备忘》第 5 版。红利 ETF 错价已修，可交易池 8.7%。</span></div><div><span class="d">10-31</span><span>R5c 完成：U-指数池能买国债、黄金、创业板后，E2 新口径年化 24.9%，过关结果不变；代码第二次冻结。发布《v4 体检报告》第 3 版（含两个池子的介绍、2008 与 2015 两次大跌的拆解）。</span></div></div>
 <div class="fold"><button aria-expanded="false" class="fold-h" type="button"><span aria-hidden="true" class="chev">▸</span><span>更早的记录</span></button><div class="fold-b" hidden="">
 <div class="log"><div><span class="d">10-30</span><span>可交易池修好（10.5%，十年没跑过基准）；v4 代码冻结。复查又发现 U-指数池买不进国债、黄金、创业板，同行的可交易池判断口径不对，安排 R5c（D25）。《v4 体检报告》第 2 版改了版式、加上可交易池。</span></div><div><span class="d">10-29（四）</span><span>v4 设计期跑完。T1–T4 都没过关，最终版 = E2 新口径；公开的 A1 双动量跑得更好；可交易池发现程序问题，修复重跑（D24）。发布《v4 体检报告》第 1 版。</span></div><div><span class="d">10-29（三）</span><span>你批准了 v4 预注册；新建《数据与容器看板》（docs/owner/data-board.md），池子、数据来源和缺口都在那里。</span></div><div><span class="d">10-29（二）</span><span>准备全部完成：198 只场内 QDII、LOF 收录，8 只缺的后复权按分红记录还原（D21）；预注册第 2.3 版签收，待你批准；一次性检验推迟到研究封板（D20）。</span></div><div><span class="d">10-29</span><span>场内 QDII、LOF 一律纳入（含全球芯片这类主动基金），同一指数只取一个、同类商品选流动性最好的（D19）；对照基线命名为“E2 新口径”。</span></div><div><span class="d">10-28（六）</span><span>预注册第 1 版有条件通过，第 2 版已改完交复审；引擎和 2016 年以后的数据检查完成；载体和数据的 9 个口径定了（D16）。</span></div><div><span class="d">10-28（五）</span><span>v4-R1b 完成；8 个口径问题定了（D15）；v4 预注册草案已写，交 Reviewer 复核；新增 2016 年以后的数据完整性检查。</span></div><div><span class="d">10-28（四）</span><span>3 条数据口径按你的选择定了，加上你的数据原则；第 4 节说明怎么只用当时的数据判断市场状态（备忘 4.5c）。</span></div><div><span class="d">10-28（三）</span><span>v4-R1–R3 完成；新增“需要你：3 条数据口径”；第 4 节说明 IC 检验和 T1、T2 怎么组合（详见备忘 4.2、4.6）。</span></div><div><span class="d">10-28（二）</span><span>3.5、3.6 重写；《v4 研究备忘》的结论并入看板：新增 3.7（任意起点、四种市场状态）和第 4 节（v4 四个候选各补哪一块）。证据和文献仍在备忘里。</span></div><div><span class="d">10-28</span><span>v3.1 已代码冻结；v4 进入开发，按轮次推进；进度总览改成“版本 × 阶段”，和开发轮次一一对应（D13）。</span></div><div><span class="d">10-27（四）</span><span>你的 3 个选择都按建议定了（D11）；v3.1 进入代码冻结，一次性检验暂不跑；v4 研究方向见《v4 研究备忘》。</span></div><div><span class="d">10-27（三）</span><span>第 1 节每件事讲清来龙去脉，休市日卖法列为你的选择；第 2 节先讲选法、再讲版本，每个版本标明改了哪一处和好坏；关键数字按好坏上色。</span></div><div><span class="d">10-27（二）</span><span>查明 2009 年跑输的原因，测试了两个改进方案；决定点改为先定失手怎么处理，再定冻结。</span></div><div><span class="d">10-27</span><span>看板重写，改在仓库维护；正式引擎复现了 E2；查明可交易池的 5% 是因为当年没有 ETF 可买。</span></div><div><span class="d">10-25</span><span>你批准 v3.1 = E2，规则冻结；查明病根是可选池太小；E3 不采用。</span></div></div>
 </div></div></section>

diff --git a/scripts/owner_pages/roadmap_v6.py b/scripts/owner_pages/roadmap_v6.py
@@ -10,7 +10,8 @@ plt.rcParams.update({'font.family': ['Noto Sans CJK SC'], 'axes.unicode_minus': 
 INK, MUTED = '#151b26', '#5d6676'
 STY = {  # 边框、底色、标题色
     'done': ('#16a34a', '#effaf2', '#15803d'), 'doing': ('#d97706', '#fff7ed', '#b45309'),
-    'you': ('#7c3aed', '#f5f3ff', '#6d28d9'), 'todo': ('#d6d9df', '#f3f4f6', MUTED)}
+    'you': ('#7c3aed', '#f5f3ff', '#6d28d9'), 'todo': ('#d6d9df', '#f3f4f6', MUTED),
+    'fail': ('#c2410c', '#fff1e8', '#c2410c')}
 COLS = ['预演（D38）', '① 规则定稿', '② 标的池', '③ 交易引擎', '④ 溢价控制', '⑤ 打分卡', '⑥ 业务体检', '⑦ 代码冻结', '⑧ 一次性检验', '⑨ 结论', '⑩ 模拟盘']
 CELLS = [
     ('done', '✓ 跑完', '登记 56 行；预测表\n3.22 版，每年 +1.2'),
@@ -19,11 +20,11 @@ CELLS = [
     ('done', '✓ 对上', '两条线独立实现，\n14 项里 12 项差 0'),
     ('done', '规则已定', '溢价比常态高 5 点\n换一只（§2）'),
     ('done', '判据已定', '四条判据 + 同仓位\n基准（§5）'),
-    ('done', '第 1.4 版', '随机对照、急跌\n仓位都已补齐'),
+    ('done', '第 1.5 版', '随机对照、急跌\n仓位都已补齐'),
     ('done', '✓ 已合入', '#375、#377\n11-26 合入'),
-    ('doing', '已批准', 'Dev 接线中；全段\n只报告（D49）'),
-    ('todo', '—', '事前预判：全部\n通过约三成'),
-    ('todo', '—', '通过后至少\n6 个月'),
+    ('done', '✓ 跑了一次', '#399；Reviewer\n独立复算一致'),
+    ('fail', '不通过', '③④ 不过；比同仓\n位每年少 2.5 点'),
+    ('todo', '不进', '按冻结稿关闭\nv6'),
 ]
 out = sys.argv[1]
 # 两行排：预演 + ①–⑤ 一行，⑥–⑩ 一行；页面主栏约 920px，单行 11 格字太小
@@ -31,7 +32,7 @@ W, H = 14.3, 7.1
 fig = plt.figure(figsize=(W, H)); ax = fig.add_axes([0, 0, 1, 1]); ax.set_xlim(0, W); ax.set_ylim(0, H); ax.axis('off')
 ax.text(0.25, H - 0.42, '进度总览：v6 × 阶段', fontsize=21, weight='bold', color=INK, va='center')
 lx = W - 6.3
-for k, lab in [('done', '完成'), ('doing', '进行中'), ('you', '需要你'), ('todo', '未开始')]:
+for k, lab in [('done', '完成'), ('fail', '不通过'), ('you', '需要你'), ('todo', '未开始')]:
     e, f, _ = STY[k]
     ax.add_patch(FancyBboxPatch((lx, H - 0.53), 0.22, 0.22, boxstyle='round,pad=0,rounding_size=0.03', ec=e, fc=f, lw=1.6))
     ax.text(lx + 0.32, H - 0.42, lab, fontsize=13.5, color=MUTED, va='center'); lx += 1.55

diff --git a/scripts/owner_pages/components.py b/scripts/owner_pages/components.py
@@ -397,7 +397,7 @@ def kpi(rows):
             def dots(m, cls):
                 k, n = int(m.group(1)), int(m.group(2))
                 return ''.join(f'<i class="{cls if j < k else ""}"></i>' for j in range(n))
-            cmp_ = (f'<div class="kp-row"><span class="kp-k">{_inner(r.get("本段") or "全段")}</span><span class="kp-dots">{dots(frac[0], "on")}</span><b>{a}</b></div>'
+            cmp_ = (f'<div class="kp-row"><span class="kp-k">{(_inner(r["本段"]) if r.get("本段") is not None and _inner(r["本段"]) else "全段")}</span><span class="kp-dots">{dots(frac[0], "on")}</span><b>{a}</b></div>'
                     f'<div class="kp-row"><span class="kp-k">{_inner(r["对照"])}</span><span class="kp-dots">{dots(frac[1], "on b")}</span><b>{b}</b></div>')
         elif fa is not None and fb is not None:
             mx = max(abs(fa), abs(fb)) or 1
